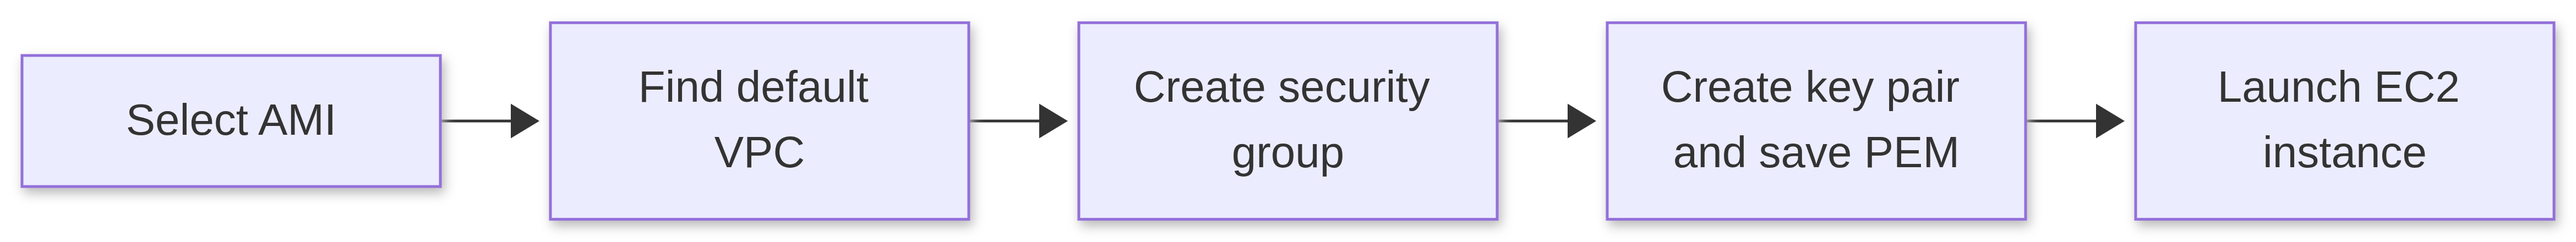
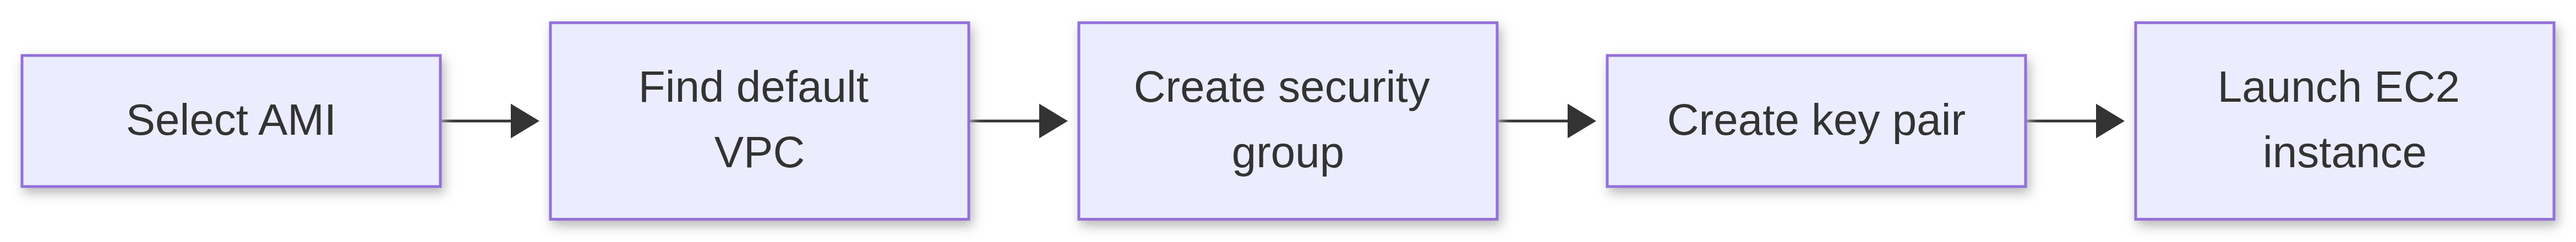
Update blog content

diff --git a/src/data/blog-posts/building-zeroku-aws-provisioning-deployments-go-daemon.md b/src/data/blog-posts/building-zeroku-aws-provisioning-deployments-go-daemon.md
@@ -5,8 +5,6 @@ description: "Notes from building Zeroku, a self-hosted deployment platform usin
 publishDate: "2026-11-06"
 ---
 
-# Building Zeroku: AWS Provisioning, Deployments, and a Go Daemon
-
 Zeroku is a self-hosted deployment tool built with Go, AWS EC2, and Docker. It provisions infrastructure, deploys applications from Git repositories, and provides a CLI to manage them.
 
 A good chunk of the work went into making the different pieces work together. Provisioning an EC2 instance is one thing, but handling failures during provisioning, keeping track of deployments, and making sure application state stays consistent are separate problems.
@@ -23,7 +21,7 @@ The PEM file is stored under:
 
 `~/.zeroku/zeroku-<region>.pem`
 
-I wanted initialization to be reasonably safe to retry. AWS provisioning involves multiple independent API calls, and there is no transaction that rolls all of them back automatically. So if something fails halfway through, we need to clean up whatever was already created.
+Initialization had to be reasonably safe to retry. AWS provisioning involves multiple independent API calls, and there is no transaction that rolls all of them back automatically. So if something fails halfway through, we need to clean up whatever was already created.
 
 For example, if the instance was successfully launched but a later operation failed, simply deleting the security group would not work while it is still attached to the instance. The instance needs to be terminated first, and the security group can be removed once it is no longer attached.
 
@@ -51,9 +49,7 @@ The deployment endpoint is where most of the interesting work happens.
 
 A deployment starts with validating the application name and repository URL. Once those checks pass, the daemon clones the GitHub repository and builds a Docker image from it.
 
-One thing I wanted to avoid was making the client sit around waiting for a potentially long Docker build without any feedback.
-
-For that, I implemented a small `flushWriter`. It forwards the build output to the HTTP response and flushes it as it arrives. This makes the deployment request feel much more responsive because the client can actually see what Docker is doing.
+A small `flushWriter` was implemented to ensure the build output is forwarded to the HTTP response and flushed as it arrives. This makes the deployment request feel much more responsive because the client can actually see what Docker is doing.
 
 Failed repository clones and failed builds are also handled without taking down the daemon. Errors are sent back through the response stream.
 
@@ -61,13 +57,11 @@ The deployment pipeline looks something like this:
 
 ![Deployment pipeline](https://ayus-10.github.io/assets/blog/zeroku-deployment-pipeline.png)
 
-There are quite a few moving parts here, and that is also why I wanted release tracking rather than treating a deployment as a single operation.
-
 ## Keeping track of application state
 
 The daemon uses a file-based JSON store to persist application state.
 
-I deliberately kept this simple. There is no database to configure or manage. The store maintains application metadata and release history in a local file.
+This was deliberately kept simple. There is no database to configure or manage. The store maintains application metadata and release history in a local file.
 
 The store uses a mutex to protect access to shared in-memory state. Reads use a read lock, while modifications use an exclusive lock.
 
@@ -94,7 +88,7 @@ It communicates with the daemon and supports the main workflows:
 - Stopping applications.
 - Deleting applications.
 
-I wanted the CLI to handle user interaction without duplicating the daemon's responsibilities. The daemon owns the application lifecycle and state, while the CLI acts as the client.
+The CLI handles user interaction without duplicating the daemon's responsibilities. The daemon owns the application lifecycle and state, while the CLI acts as the client.
 
 This also means the same API can eventually be used by other clients without needing to reproduce the deployment logic.
 
@@ -102,10 +96,10 @@ This also means the same API can eventually be used by other clients without nee
 
 There were a few design decisions that kept coming up while putting everything together.
 
-**Failure handling matters at every layer.** AWS provisioning can fail halfway through, Git cloning can fail, Docker builds can fail, and containers can fail health checks. Each failure needs to leave the system in a sensible state.
+**Failure handling matters at every layer.** AWS provisioning can fail halfway through, Git cloning can fail, Docker builds can fail, and containers can fail health checks.
 
-**State and deployment history are different things.** An application can have many releases, but only one should be identified as its current active release. Keeping those concepts separate makes the model easier to work with.
+**State and deployment history are different things.** An application can have many releases, but only one should be identified as its current active release.
 
-**Concurrency cannot be ignored.** Protecting the file-based store with a mutex is one part of the problem. Deployments of the same application also need to be isolated so that two concurrent requests do not race while allocating releases or updating the active release.
+**Concurrency cannot be ignored.** Deployments of the same application need to be isolated so that two concurrent requests do not race while allocating releases or updating the active release.
 
 There is still plenty of room to improve things, especially around failure recovery, integration testing, and cleanup of resources that outlive their deployments. But having infrastructure provisioning, a persistent state store, a deployment pipeline, and a CLI working together gives Zeroku a solid foundation to build on.

diff --git a/src/data/blog-posts/zeroku-build-your-own-paas.md b/src/data/blog-posts/zeroku-build-your-own-paas.md
@@ -58,6 +58,4 @@ The flow is pretty straightforward: your CLI talks to AWS to spin up an EC2 inst
 
 ## Why Build This?
 
-I wanted to know what actually goes into building a PaaS, beyond the polished dashboard and the deploy button.
-
 It's easy to take infrastructure provisioning, container management, routing, authentication, and persistent state for granted when using an existing platform. I wanted to get my hands dirty with all of it and see how these pieces fit together when you're the one responsible for making
